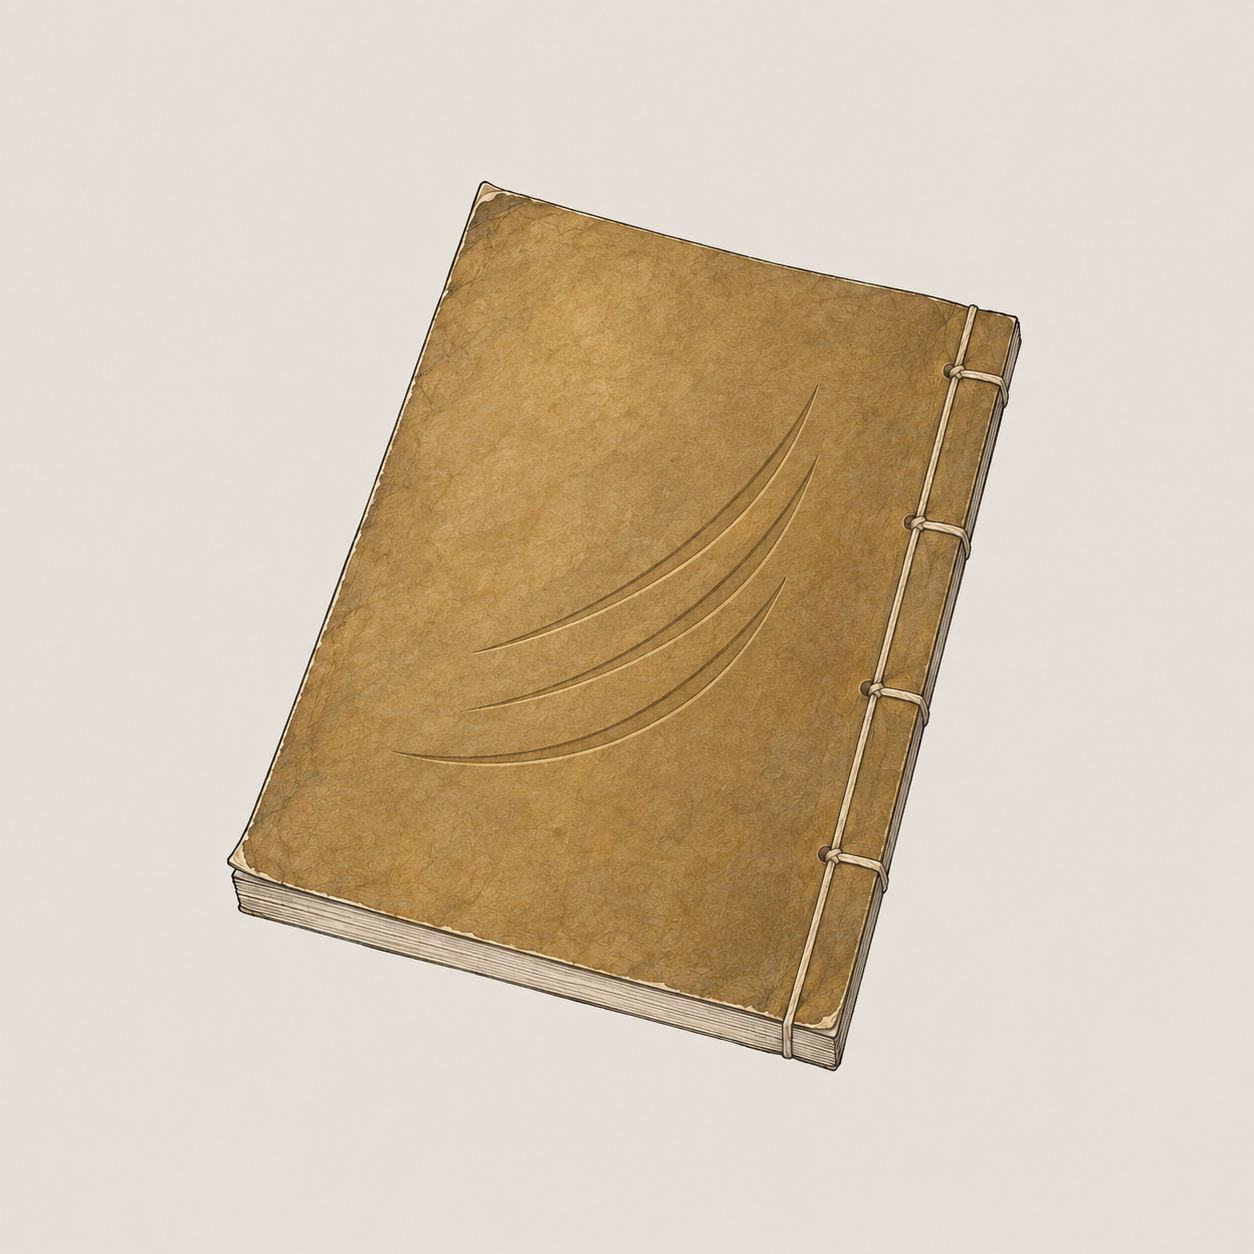
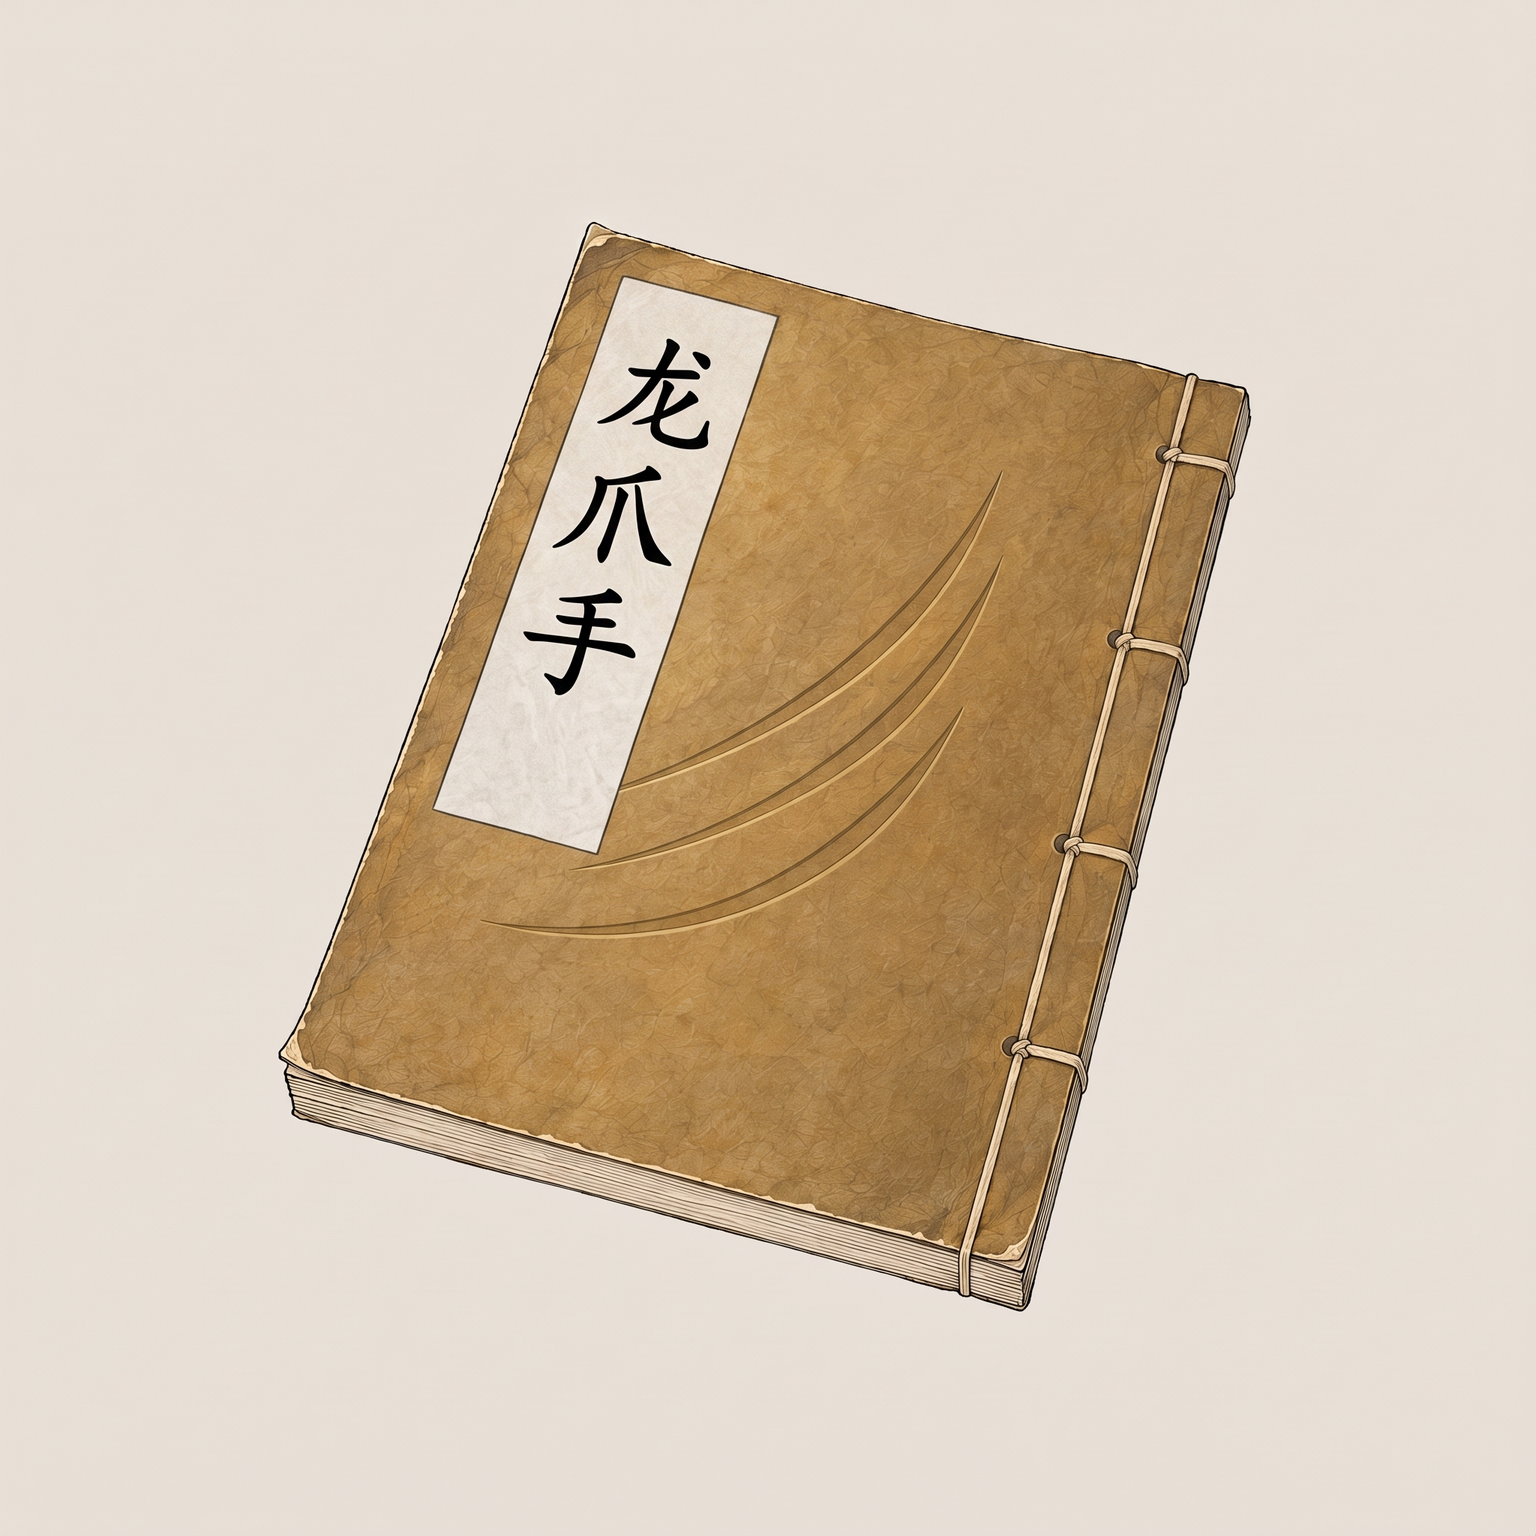
assets(gemini): it_miji_longzhaoshou 龙爪手秘本

diff --git a/assets/default/prompts/INDEX.md b/assets/default/prompts/INDEX.md
@@ -3,7 +3,7 @@
 > 本文件由 `tools/agents/build_image_index.py` 生成，不要手改；改提示词就改各文件，改规程就改各组 `GUIDE.md`，然后重新生成。
 > 人物立绘另见 `characters/INDEX.md`（别的 agent 在出，不在本索引）。建筑套件与贴片已出齐，只列完成度。
 
-提示词 **627** 份：已入库 257、待出图 233、已通过（作者） 137。**待出图队列 233 行**（`python3 tools/agents/build_image_index.py --queue`）。
+提示词 **627** 份：已入库 258、待出图 233、已通过（作者） 136。**待出图队列 233 行**（`python3 tools/agents/build_image_index.py --queue`）。
 
 ## 出图 agent 怎么用
 
@@ -393,7 +393,7 @@
 | 117 | 猪肚 | `it_zhudu` | 黄 | 食材·肉 | 待出图 | [it_zhudu.md](items/food/it_zhudu.md) | template |
 | 118 | 猪肉 | `it_zhurou` | 黄 | 食材·肉 | 待出图 | [it_zhurou.md](items/food/it_zhurou.md) | template |
 
-### 武学秘籍（18）· 已入库 13、已通过（作者） 5
+### 武学秘籍（18）· 已入库 14、已通过（作者） 4
 
 （已全部入库。）
 
